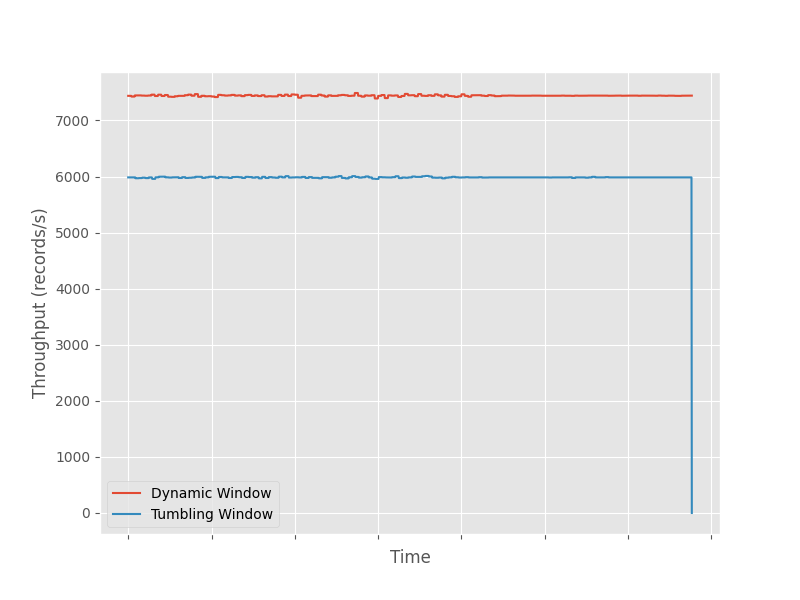
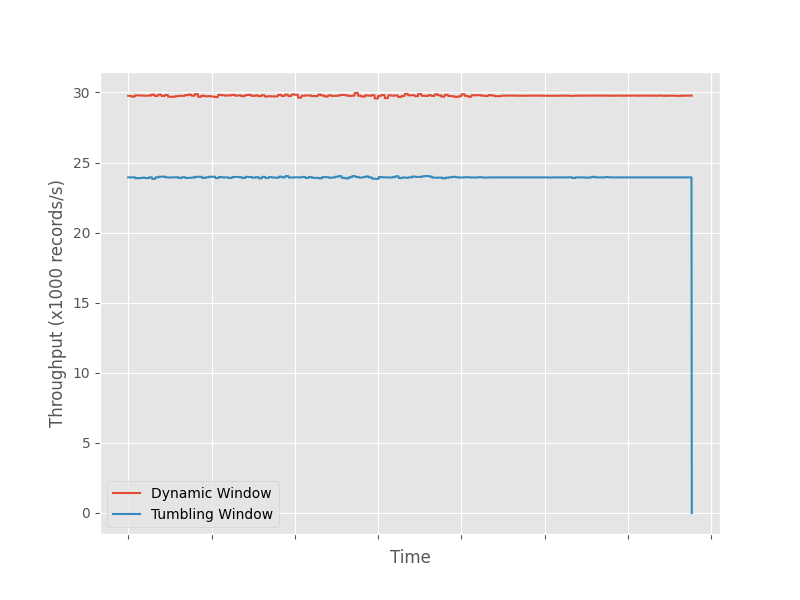
updated throughput plotting

Changed region(s): [[0.0312, 0.27, 0.8438, 0.72], [0.0625, 0.15, 0.125, 0.21], [0.0625, 0.75, 0.125, 0.78]]

diff --git a/src/visualizers/visualizer.py b/src/visualizers/visualizer.py
@@ -243,10 +243,15 @@ def visualize_throughput(dyn_vert: m_parser.DFConsolidator,
                          output_dir: Path,
                          test_type: TestType):
 
-    dyn_out_avg = dyn_vert.get_columns(metric="RecordsOutPerSecond_avg")
-    tumb_vert_avg = tumb_vert.get_columns(metric="RecordsOutPerSecond_avg")
+    parallelism = 4
+    throughput_divider = 1000
+    dyn_out_avg = dyn_vert.get_columns(
+        metric="RecordsOutPerSecond_avg")/throughput_divider
+    tumb_vert_avg = tumb_vert.get_columns(
+        metric="RecordsOutPerSecond_avg")/throughput_divider
 
-    throughput_df = pd.concat([dyn_out_avg, tumb_vert_avg], axis=1)
+    throughput_df = pd.concat(
+        [dyn_out_avg * parallelism, tumb_vert_avg * parallelism], axis=1)
     throughput_df = throughput_df.fillna(0)
     throughput_df = throughput_df[100::]
 
@@ -256,7 +261,7 @@ def visualize_throughput(dyn_vert: m_parser.DFConsolidator,
     ax = draw_lineplot(throughput_df,
                        np.arange(0, throughput_df.shape[0]),
                        "",
-                       ylabel="Throughput (records/s)",
+                       ylabel="Throughput (x1000 records/s)",
                        xlabel="Time",
                        ax=ax)
 
